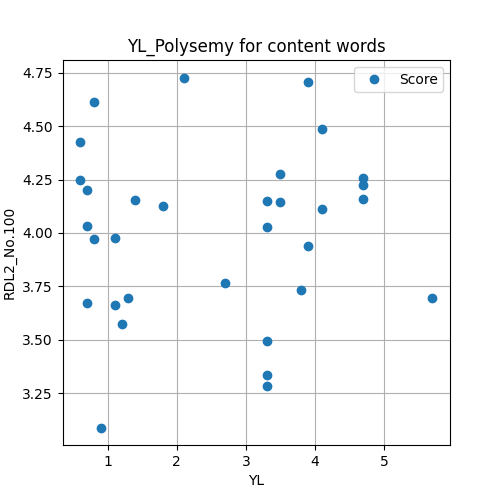
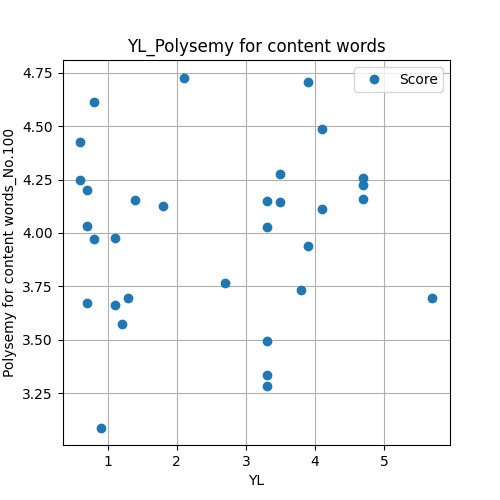
SecondTime

Changed region(s): [[0.0, 0.24, 0.03, 0.75]]

diff --git a/coh-metrix/cohmetrix_tamesi.py b/coh-metrix/cohmetrix_tamesi.py
@@ -32,7 +32,7 @@ x = [1.1, 1.1, 3.5, 3.3, 3.9, 4.7, 4.7, 1.2, 1.4, 1.8, 1.3, 2.1, 2.7, 3.8, 3.5, 
 x_np = np.array(x)
 
 count_list = [3, 31, 47, 92, 104, 106, 96, 99, 67, 102, 44, 77, 73,
-              60, 100,91] #パラメータの番号
+              60, 100,91, 11] #パラメータの番号
 count_zyunban = 0 #count_listの順番を決める変数
 soukankekka = {} #パラメータ：相関係数の結果　のディクショナリ
 
@@ -68,6 +68,7 @@ while count_zyunban < len(count_list):
 
     # グラフの描写
     plt.plot(x, y, 'o', label='Score')
+    
    
     #総単語数
     if count == 3:
@@ -160,7 +161,7 @@ while count_zyunban < len(count_list):
     elif count == 96:
         plt.title('YL_Familiarity for content word') # タイトル
         plt.xlabel('YL') # x軸のラベル
-        plt.ylabel('RDL2_No.96') # y軸のラベル
+        plt.ylabel('Familiarity_No.96') # y軸のラベル
 
         plt.grid(True) # gridの表示
         plt.legend() # 凡例の表示
@@ -173,7 +174,7 @@ while count_zyunban < len(count_list):
     elif count == 99:
         plt.title('YL_Word meaningfulness every word') # タイトル
         plt.xlabel('YL') # x軸のラベル
-        plt.ylabel('RDL2_No.99') # y軸のラベル
+        plt.ylabel('meaningfulness_No.99') # y軸のラベル
 
         plt.grid(True) # gridの表示
         plt.legend() # 凡例の表示
@@ -186,7 +187,7 @@ while count_zyunban < len(count_list):
     elif count == 67:
         plt.title('YL_Number of words before the main verb') # タイトル
         plt.xlabel('YL') # x軸のラベル
-        plt.ylabel('RDL2_No.67') # y軸のラベル
+        plt.ylabel('Number of words before the main ver_No.67') # y軸のラベル
 
         plt.grid(True) # gridの表示
         plt.legend() # 凡例の表示
@@ -200,7 +201,7 @@ while count_zyunban < len(count_list):
     elif count == 102:
         plt.title('YL_hypernymy for Verb') # タイトル
         plt.xlabel('YL') # x軸のラベル
-        plt.ylabel('RDL2_No.102') # y軸のラベル
+        plt.ylabel('hypernymy for Verb_No.102') # y軸のラベル
 
         plt.grid(True) # gridの表示
         plt.legend() # 凡例の表示
@@ -214,7 +215,7 @@ while count_zyunban < len(count_list):
     elif count == 44:
         plt.title('YL_LSA given/new') # タイトル
         plt.xlabel('YL') # x軸のラベル
-        plt.ylabel('RDL2_No.44') # y軸のラベル
+        plt.ylabel('LSA_No.44') # y軸のラベル
 
         plt.grid(True) # gridの表示
         plt.legend() # 凡例の表示
@@ -228,7 +229,7 @@ while count_zyunban < len(count_list):
     elif count == 77:
         plt.title('YL_preposition') # タイトル
         plt.xlabel('YL') # x軸のラベル
-        plt.ylabel('RDL2_No.77') # y軸のラベル
+        plt.ylabel('preposition_No.77') # y軸のラベル
 
         plt.grid(True) # gridの表示
         plt.legend() # 凡例の表示
@@ -242,7 +243,7 @@ while count_zyunban < len(count_list):
     elif count == 73:
         plt.title('YL_Sentence syntax similarity') # タイトル
         plt.xlabel('YL') # x軸のラベル
-        plt.ylabel('RDL2_No.73') # y軸のラベル
+        plt.ylabel('Sentence syntax similarity_No.73') # y軸のラベル
 
         plt.grid(True) # gridの表示
         plt.legend() # 凡例の表示
@@ -256,7 +257,7 @@ while count_zyunban < len(count_list):
     elif count == 60:
         plt.title('YL_Causal verbs and causal particles incidence') # タイトル
         plt.xlabel('YL') # x軸のラベル
-        plt.ylabel('RDL2_No.60') # y軸のラベル
+        plt.ylabel('Causal verbs and causal particles incidence_No.60') # y軸のラベル
 
         plt.grid(True) # gridの表示
         plt.legend() # 凡例の表示
@@ -270,7 +271,7 @@ while count_zyunban < len(count_list):
     elif count == 100:
         plt.title('YL_Polysemy for content words') # タイトル
         plt.xlabel('YL') # x軸のラベル
-        plt.ylabel('RDL2_No.100') # y軸のラベル
+        plt.ylabel('Polysemy for content words_No.100') # y軸のラベル
 
         plt.grid(True) # gridの表示
         plt.legend() # 凡例の表示
@@ -284,14 +285,27 @@ while count_zyunban < len(count_list):
     elif count == 91:
         plt.title('YL_Third person plural pronoun incidence') # タイトル
         plt.xlabel('YL') # x軸のラベル
-        plt.ylabel('RDL2_No.91') # y軸のラベル
+        plt.ylabel('Third person plural pronoun incidence_No.91') # y軸のラベル
 
         plt.grid(True) # gridの表示
         plt.legend() # 凡例の表示
-        plt.savefig("Third person plural pronoun incidence.png")
+        plt.savefig("ThirdPersonPluralPronounIncidence.png")
 
     
         para = "91, 代名詞，三人称，複数型の発生スコア"
+
+    #単語の文字数の標準偏差
+    elif count == 11:
+        plt.title('Correlation coefficient') # タイトル
+        plt.xlabel('YL') # x軸のラベル
+        plt.ylabel('Standard deviation of the mean number of letter_No.11') # y軸のラベル
+
+        plt.grid(True) # gridの表示
+        plt.legend() # 凡例の表示
+        plt.savefig("StandardDeviationOfTheMeanNumberOfLetterInWords.png")
+
+    
+        para = "11, 単語の文字数の標準偏差"
     
 
 

diff --git a/coh-metrix/cohmetrix_tamesi_reberu.py b/coh-metrix/cohmetrix_tamesi_reberu.py
@@ -31,6 +31,17 @@ leveldic = {"des": "記述的", "pc": "テキストの使いやすさ主成分",
     "lsa": "LSA", "ld": "語彙の多様性", "cnc": "連結語", "sm": "状況モデル", 
     "syn": "構文の複雑さ", "dr": "構文パターン密度", "wrd": "単語情報", 
     "rd": "読みやすさ"} #ラベルとレベル名の対応
+allparaldic = {1: "記述的", 2: "テキストの使いやすさ主成分", 3: "参照の結束", 4: "LSA", 5: "語彙の多様性", 6: "連結語", 7: "状況モデル", 8: "構文の複雑さ", 9: "構文パターン密度", 10: "単語情報", 
+    11: "記述的", 12: "テキストの使いやすさ主成分", 13: "参照の結束", 14: "LSA", 15: "語彙の多様性", 16: "連結語", 17: "状況モデル", 18: "構文の複雑さ", 19: "構文パターン密度", 20: "単語情報", 
+    21: "記述的", 22: "テキストの使いやすさ主成分", 23: "参照の結束", 24: "LSA", 25: "語彙の多様性", 26: "連結語", 27: "状況モデル", 28: "構文の複雑さ", 29: "構文パターン密度", 30: "単語情報",
+    31: "記述的", 32: "テキストの使いやすさ主成分", 33: "参照の結束", 34: "LSA", 35: "語彙の多様性", 36: "連結語", 37: "状況モデル", 38: "構文の複雑さ", 39: "構文パターン密度", 40: "単語情報",
+    41: "記述的", 42: "テキストの使いやすさ主成分", 43: "参照の結束", 44: "LSA", 45: "語彙の多様性", 46: "連結語", 47: "状況モデル", 48: "構文の複雑さ", 49: "構文パターン密度", 50: "単語情報", 
+    51: "記述的", 52: "テキストの使いやすさ主成分", 53: "参照の結束", 54: "LSA", 55: "語彙の多様性", 56: "連結語", 57: "状況モデル", 58: "構文の複雑さ", 59: "構文パターン密度", 60: "単語情報", 
+    61: "記述的", 62: "テキストの使いやすさ主成分", 63: "参照の結束", 64: "LSA", 65: "語彙の多様性", 66: "連結語", 67: "状況モデル",  68: "構文の複雑さ", 69: "構文パターン密度", 70: "単語情報",
+    71: "記述的", 72: "テキストの使いやすさ主成分", 73: "参照の結束", 74: "LSA", 75: "語彙の多様性", 76: "連結語", 77: "状況モデル", 78: "構文の複雑さ", 79: "構文パターン密度", 80: "単語情報",
+    81: "記述的", 82: "テキストの使いやすさ主成分", 83: "参照の結束", 84: "LSA", 85: "語彙の多様性", 86: "連結語", 87: "状況モデル", 88: "構文の複雑さ", 89: "構文パターン密度", 90: "単語情報",
+    91: "記述的", 92: "テキストの使いやすさ主成分", 93: "参照の結束", 94: "LSA", 95: "語彙の多様性", 96: "連結語", 97: "状況モデル", 98: "構文の複雑さ", 99: "構文パターン密度", 100: "単語情報",
+    101: "記述的", 102: "テキストの使いやすさ主成分", 103: "参照の結束", 104: "LSA", 105: "語彙の多様性", 106: "連結語"} #ラベルとレベル名の対応
 count = 0 #軸のcount_listの順番を決める変数
 
 
@@ -38,7 +49,6 @@ count = 0 #軸のcount_listの順番を決める変数
 
 
     
-
 for key, value in leveldic.items():
     soukankekka = {} #パラメーター番号：レベル内での相関係数の結果リスト
     count_level = 0
